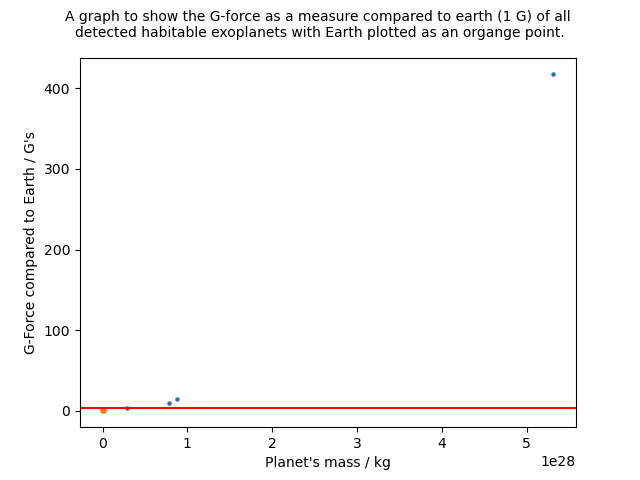
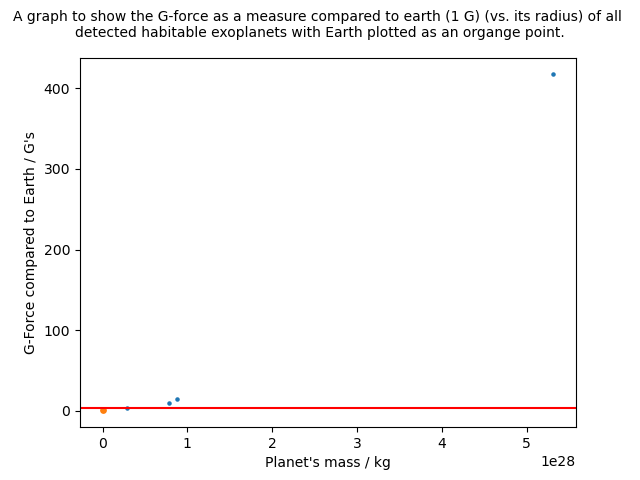
Plot G-Force vs planet radius

Changed region(s): [[0.0312, 0.0, 0.9688, 0.0625]]

diff --git a/explore.py b/explore.py
@@ -560,7 +560,7 @@ def graph_gravity(exo, hab, savepathall, savepathhab):
 	# plot
 	plt.clf()
 
-	plt.suptitle("A graph to show the G-force as a measure compared to earth (1 G) \n of all detected exoplanets with Earth plotted as an organge point.", fontsize=10)
+	plt.suptitle("A graph to show the G-force as a measure compared to earth (1 G) (vs. its radius) \n of all detected exoplanets with Earth plotted as an organge point.", fontsize=10)
 	plt.xlabel("Planet's mass / kg")
 	plt.ylabel("G-Force compared to Earth / G's")
 
@@ -590,14 +590,10 @@ def graph_gravity(exo, hab, savepathall, savepathhab):
 	x_planet_mass = np.array(t_df['planet_mass_in_kg']) 
 	y_g_force = np.array(t_df['gravity_compared_to_earth'])
 
-	# add some data for earth (orange dot on plot)
-	earth_mass = 5.972e24
-	earth_g = 1
-
 	# clear last plot
 	plt.clf()
 
-	plt.suptitle("A graph to show the G-force as a measure compared to earth (1 G) of all \ndetected habitable exoplanets with Earth plotted as an organge point.", fontsize=10)
+	plt.suptitle("A graph to show the G-force as a measure compared to earth (1 G) (vs. its radius) of all \ndetected habitable exoplanets with Earth plotted as an organge point.", fontsize=10)
 	plt.xlabel("Planet's mass / kg")
 	plt.ylabel("G-Force compared to Earth / G's")
 
@@ -610,6 +606,80 @@ def graph_gravity(exo, hab, savepathall, savepathhab):
 	plt.axhline(y=4, color='r', linestyle='-') # plot line
 
 	plt.savefig(savepathhab)
+
+
+	### plot g's vs radius ###
+
+	# clear previous plot and make new plot
+	plt.clf()
+	combined = {'gravity_compared_to_earth': np.array(exo['gravity_compared_to_earth']), 
+	'planet_actual_radius' : np.array(exo['planet_actual_radius'])}
+
+	# temp dataframe to remove nans - if there are nan values in the dataframe, remove the row as we need both x and y values to plot.
+	t_df = pd.DataFrame(combined)
+	t_df.dropna(inplace = True)
+
+	# Create our final dataset, independant variable on the x
+	x_planet_radius = np.array(t_df['planet_actual_radius']) 
+	y_g_force = np.array(t_df['gravity_compared_to_earth'])
+
+	# add some data for earth (orange dot on plot)
+	earth_mass = 5.972e24
+	earth_g = 1
+
+	# plot
+	plt.clf()
+
+	plt.suptitle("A graph to show the G-force as a measure compared to earth (1 G) (vs. its radius) \n of all detected exoplanets with Earth plotted as an organge point.", fontsize=10)
+	plt.xlabel("Planet's radius / km")
+	plt.ylabel("G-Force compared to Earth / G's")
+
+	plt.scatter(x_planet_radius, y_g_force, s=5)
+	plt.scatter(6371, earth_g, s=15)
+
+	# Humans could build the strength to survive up to 4 G's potentially (though i have seen studies suggeting we can only survive
+	# 3 G's for up to 2 minuets, so not sure on the reliability of this.) Add a line to indicate this cut off point. 
+	# Source: https://www.discovermagazine.com/the-sciences/whats-the-maximum-gravity-we-could-survive
+	plt.axhline(y=4, color='r', linestyle='-') # plot line
+
+	plt.savefig("./output/g_force_all_exoplanets_radius.png")
+
+
+	### plot g's vs radius ###
+
+	# clear previous plot and make new plot
+	plt.clf()
+	combined = {'gravity_compared_to_earth': np.array(hab['gravity_compared_to_earth']), 
+	'planet_actual_radius' : np.array(hab['planet_actual_radius'])}
+
+	# temp dataframe to remove nans - if there are nan values in the dataframe, remove the row as we need both x and y values to plot.
+	t_df = pd.DataFrame(combined)
+	t_df.dropna(inplace = True)
+
+	# Create our final dataset, independant variable on the x
+	x_planet_radius = np.array(t_df['planet_actual_radius']) 
+	y_g_force = np.array(t_df['gravity_compared_to_earth'])
+
+	# add some data for earth (orange dot on plot)
+	earth_mass = 5.972e24
+	earth_g = 1
+
+	# plot
+	plt.clf()
+
+	plt.suptitle("A graph to show the G-force as a measure compared to earth (1 G) (vs. its radius) \n of all detected habitable exoplanets with Earth plotted as an organge point.", fontsize=10)
+	plt.xlabel("Planet's radius / km")
+	plt.ylabel("G-Force compared to Earth / G's")
+
+	plt.scatter(x_planet_radius, y_g_force, s=5)
+	plt.scatter(6371, earth_g, s=15)
+
+	# Humans could build the strength to survive up to 4 G's potentially (though i have seen studies suggeting we can only survive
+	# 3 G's for up to 2 minuets, so not sure on the reliability of this.) Add a line to indicate this cut off point. 
+	# Source: https://www.discovermagazine.com/the-sciences/whats-the-maximum-gravity-we-could-survive
+	plt.axhline(y=4, color='r', linestyle='-') # plot line
+
+	plt.savefig("./output/g_force_all_exoplanets_habitable_radius.png")
 
 
 
